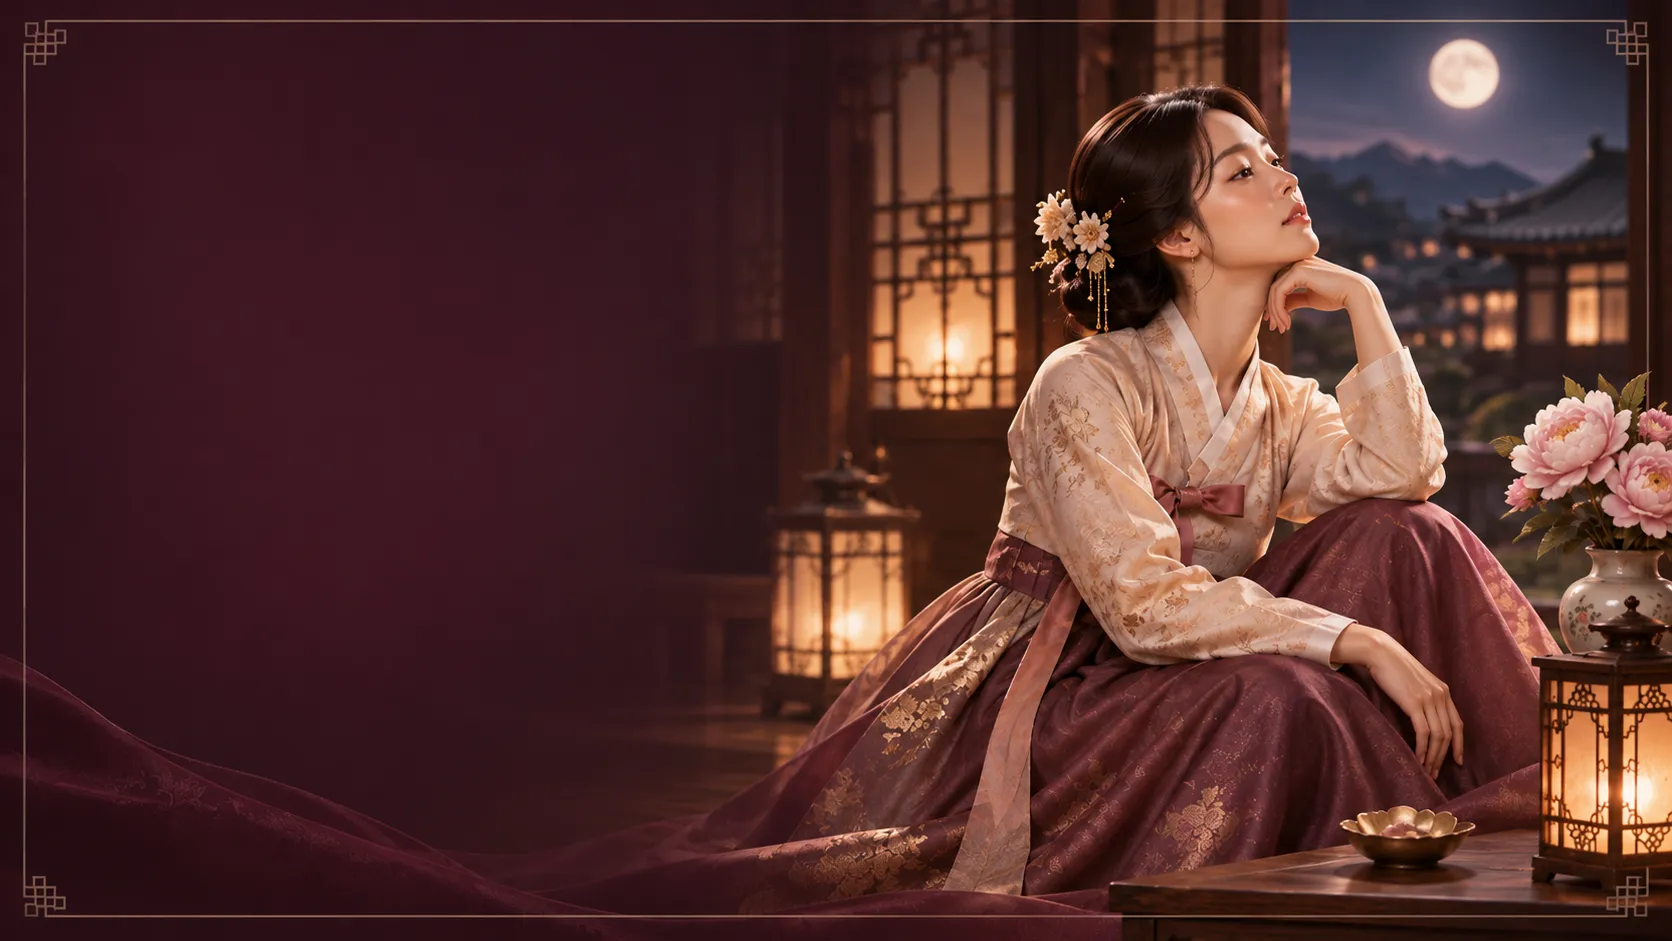
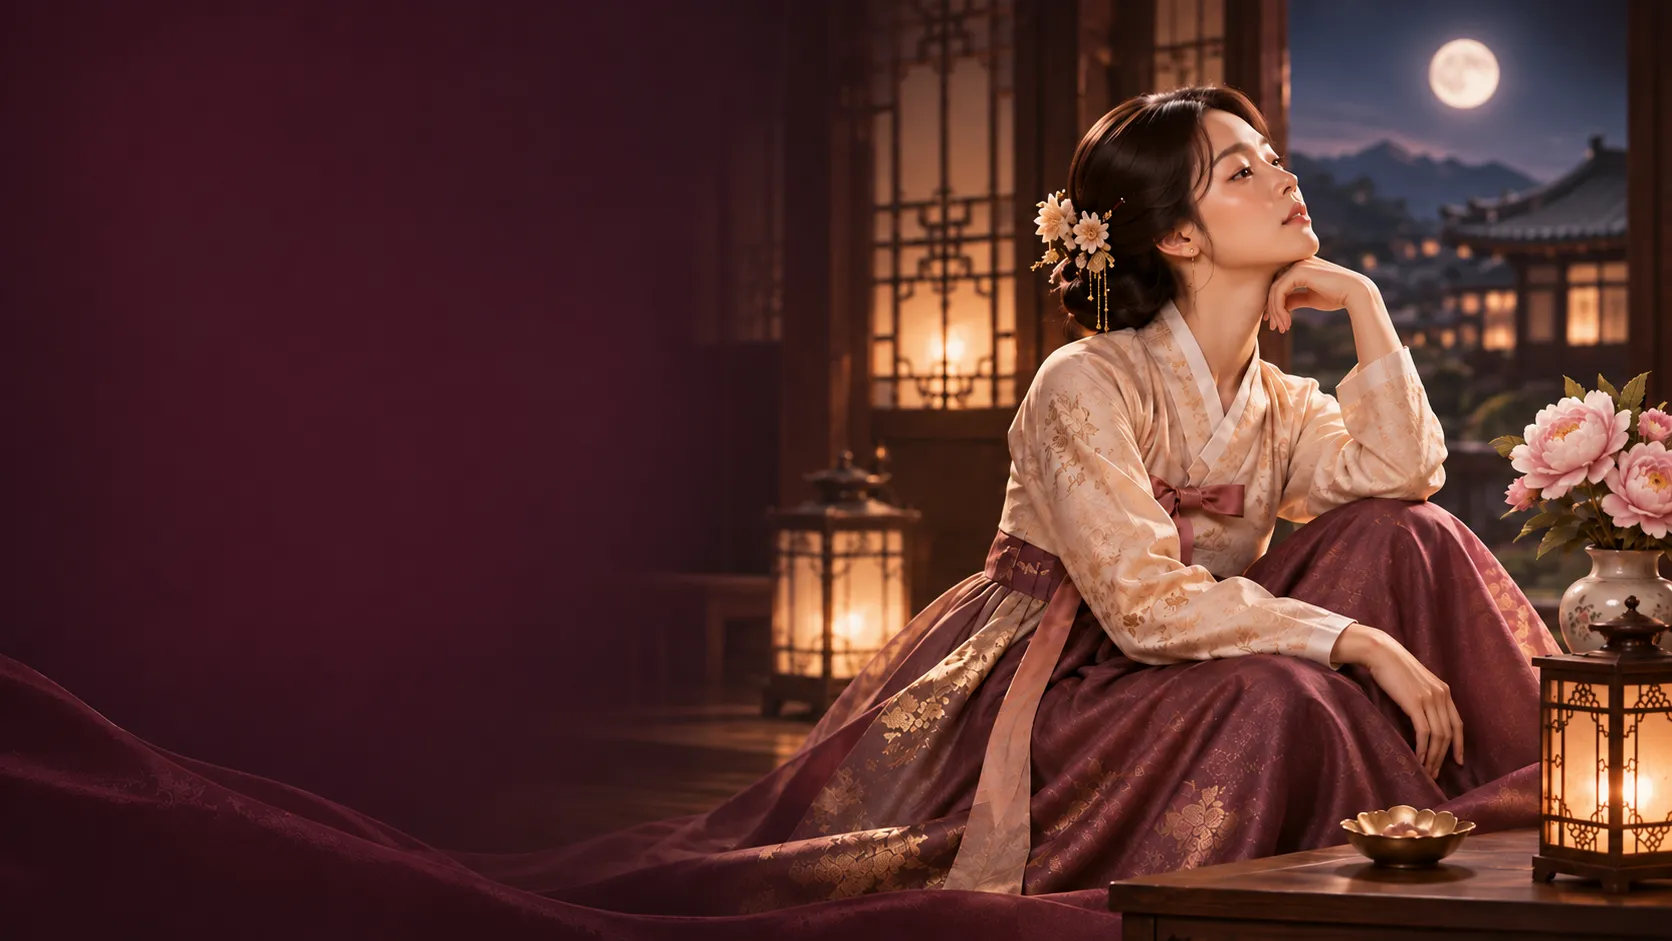
feat(reunion-secret): update cta background, remove curriculum image frame, adjust mechanism heading line break

diff --git a/app/reports/reunion-secret/page.tsx b/app/reports/reunion-secret/page.tsx
@@ -62,7 +62,7 @@ const productData = {
   formulaImage: '/image/reunion-secret/r4.webp',
   bookIntroImage: '/image/reunion-secret/reunion-secret-book-intro.webp?v=20261108',
   premiumImage: '/image/reunion-secret/return-secret-usage-guide.webp',
-  ctaImage: '/image/reunion-secret/return-secret-cta-bg.webp',
+  ctaImage: '/image/reunion-secret/return-secret-cta-bg.webp?v=20261109_v2',
 
   // 💡 [커리큘럼 & 아키텍처] 16:9 와이드 인포그래픽 이미지 경로
   curriculumImage: '/image/reunion-secret/reunion-secret-two-step-transformation.webp',
@@ -1729,13 +1729,13 @@ export default function ReunionSecretPage() {
                     </p>
                   </div>
 
-                  {/* 16:9 와이드 인포그래픽 이미지 영역 (콘텐츠 가로폭 100%, 모서리 20px, 위쪽 간격 32~40px) */}
-                  <div className="mt-8 md:mt-10 relative w-full rounded-[20px] overflow-hidden border border-[#B49A70]/30 shadow-[0_12px_40px_rgba(0,0,0,0.45)]">
+                  {/* 16:9 와이드 인포그래픽 이미지 영역 (뒤의 네모 상자/테두리/그림자 삭제, 이미지만 단독 노출) */}
+                  <div className="mt-8 md:mt-10 relative w-full">
                     <Image
                       src="/image/reunion-secret/reunion-secret-two-step-transformation.webp"
                       alt="재회를 운에 맡기지 마십시오. 《재회비방》이 안내하는 무의식 재회 설계도"
-                      width={1600}
-                      height={900}
+                      width={1695}
+                      height={928}
                       sizes="(max-width: 1280px) 100vw, 1280px"
                       className="w-full h-auto object-contain block"
                       priority
@@ -1757,9 +1757,12 @@ export default function ReunionSecretPage() {
                     <span className="text-[#C2A477] font-elegant tracking-[0.25em] text-xs uppercase font-bold">
                       THE REUNION MECHANISM
                     </span>
-                    <h2 className="text-2xl md:text-[36px] font-elegant font-bold text-white leading-[1.4] break-keep">
+                    <h2 className="text-2xl md:text-[36px] font-elegant font-bold text-white leading-[1.4] md:leading-[1.5] break-keep">
                       이별의 상처를 매달림으로 풀지 마십시오.<br />
-                      <span className="text-[#C2A477]">내 에너지를 회수하고, 상대의 무의식에 후폭풍을 심습니다.</span>
+                      <span className="text-[#C2A477]">
+                        내 에너지를 회수하고, 상대의 무의식에<br />
+                        후폭풍을 심습니다.
+                      </span>
                     </h2>
                     <p className="text-sm md:text-base text-[#EDE6DA]/70 font-light">
                       떠난 남자를 돌아오게 만드는 것은 눈물이 아니라 &apos;통제된 결핍과 프레임 역전&apos;입니다.
